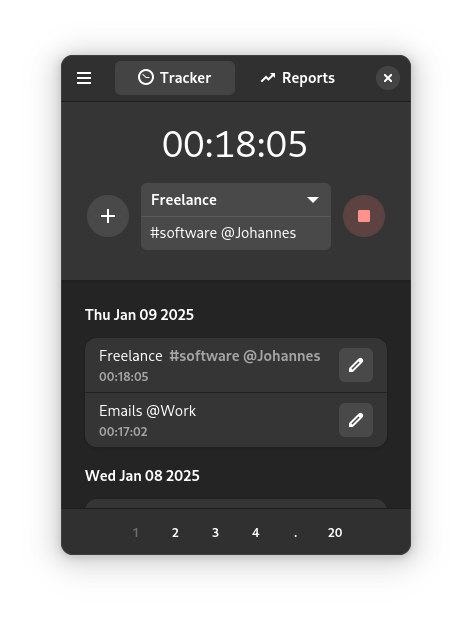
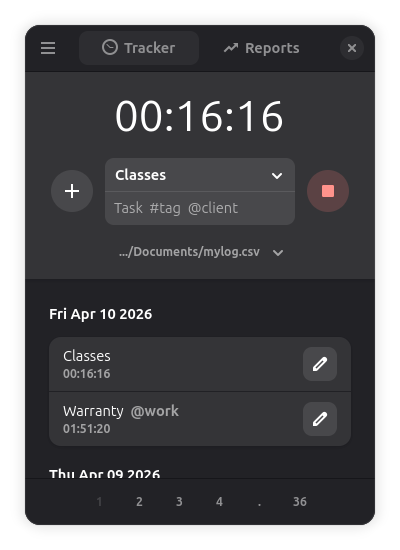
Adding log path on home screen

diff --git a/src/window.js b/src/window.js
@@ -199,8 +199,8 @@ export const TimeTrackerWindow = GObject.registerClass({
   InternalChildren: ['status', 'startbutton', 'starticon', 'projectlist',
   'logbox', 'logcontrols', 'add', 'switcher_title', 'menu', 'toast_overlay',
   'customreport', 'reportcontrols', 'reportdata', 'logouter',
-  'metaentry', 'presetreports', 'stack', 'page1', 'page3',
-  'newbutton', 'openbutton', 'systembutton', 'logscroll'],
+  'metaentry', 'presetreports', 'stack', 'page1', 'page3', 'logpathlabel',
+  'newbutton', 'openbutton', 'systembutton', 'logscroll', 'logbutton'],
 }, class TimeTrackerWindow extends Adw.ApplicationWindow {
 
   // Connecting with the gsettings for Time Tracker
@@ -235,12 +235,15 @@ export const TimeTrackerWindow = GObject.registerClass({
     ampmformat = this._settings.get_boolean("ampmformat");
     sync_autotemplog = this._settings.get_boolean("autotemplog");
     logpath = this._settings.get_string("log");
+
     const projectsSetting = this._settings.get_string("projects");
     try {
       this.setprojects(projectsSetting.split("`"));
     } catch (_) {
       this.setprojects();
     }
+
+    this.setlogbuttontext(logpath);
 
     // Connecting the start/stop button with the proper function
     const startstopAction = new Gio.SimpleAction({name: 'start'});
@@ -299,6 +302,40 @@ export const TimeTrackerWindow = GObject.registerClass({
     const columnsAction = new Gio.SimpleAction({name: 'editcolumns'});
     columnsAction.connect('activate', () => this.editwriteonlycolumnsdialog());
     this.add_action(columnsAction);
+
+    // Connecting the "Open Log" button with the proper function
+    const opencsvAction = new Gio.SimpleAction({name: 'opencsv'});
+    opencsvAction.connect('activate', () => {
+      try {
+        Gio.AppInfo.launch_default_for_uri(`file://${logpath}`, null);
+      } catch (e) {
+        console.log("Failed to open file: " + e);
+        this._toast_overlay.add_toast(Adw.Toast.new("Couldn't open the file."));
+      }
+    });
+    this.add_action(opencsvAction);
+
+    // Connecting the "Open Containing Folder" button with the proper function
+    const openfolderAction = new Gio.SimpleAction({name: 'openfolder'});
+    openfolderAction.connect('activate', () => {
+      try {
+        const file = Gio.File.new_for_path(logpath);
+        const folder = file.get_parent();
+        Gio.AppInfo.launch_default_for_uri(folder.get_uri(), null);
+      } catch (e) {
+        console.log("Failed to open folder: " + e);
+        this._toast_overlay.add_toast(Adw.Toast.new("Couldn't open the folder."));
+      }
+    });
+    this.add_action(openfolderAction);
+
+    // Connecting the "Copy path" button with the proper function
+    const copypathAction = new Gio.SimpleAction({name: 'copypath'});
+    copypathAction.connect('activate', () => {
+      const clipboard = this.get_clipboard();
+      clipboard.set(logpath);
+    });
+    this.add_action(copypathAction);
 
     // Connecting the project model to projectlist
     this._projectlist.expression = listexpression;
@@ -660,6 +697,7 @@ export const TimeTrackerWindow = GObject.registerClass({
           }
 
           this._settings.set_string("log", logpath);
+          this.setlogbuttontext(logpath);
 
           this.savedialog();
           if (insist) {
@@ -817,12 +855,24 @@ export const TimeTrackerWindow = GObject.registerClass({
 
       // Set logpath to log1 and save
       logpath = log1;
+      this.setlogbuttontext(logpath);
       await this.writelog();
       // Start sync timer
       this.setsynctimer();
 
     } else {
       console.log("Cannot merge the same file");
+    }
+  }
+
+  async setlogbuttontext(path = logpath) {
+    try {
+      let text = "..." + path.slice(-20);
+      this._logbutton.set_label(text);
+      this._logbutton.set_tooltip_text(path);
+      this._logpathlabel.label = path;
+    } catch (e) {
+      console.log(e);
     }
   }
 
@@ -853,6 +903,7 @@ export const TimeTrackerWindow = GObject.registerClass({
 
           this.stopsynctimer()
           logpath = file.get_path();
+          this.setlogbuttontext(logpath);
           // Make sure it resets everything when reading the new file
           sync_firsttime = true;
           // Empty sync_extracolumns
@@ -4909,6 +4960,7 @@ export const TimeTrackerWindow = GObject.registerClass({
     const directory = Gio.File.new_for_path(filepath);
 
     logpath = filepath + "/log.csv";
+    this.setlogbuttontext(logpath);
     this._settings.set_string("log", logpath);
     const file = Gio.File.new_for_path(logpath);
     // If the file exists
@@ -4949,6 +5001,7 @@ export const TimeTrackerWindow = GObject.registerClass({
         let today = new Date();
         //const ID = today.getTime();
 
+        /*
         let logname = logpath.split("/")[logpath.split("/").length - 1];
 
         let todaysname = "backup_" + today.getFullYear() +
@@ -4958,10 +5011,18 @@ export const TimeTrackerWindow = GObject.registerClass({
         await this.writelog(filepath + "/" + todaysname, null, false);
         console.log("Saved a backup");
         files.push(todaysname);
+        */
+        const hash = this.hashpath(logpath);
+        const timestamp = today.getTime();
+        const todaysname = `backup_${timestamp}_${hash}.csv`;
+        await this.writebackupindex(logpath);
+        await this.createfile(filepath + "/" + todaysname);
+        await this.writelog(filepath + "/" + todaysname, null, false);
 
 
         // Clean up extra backups according to numberofbackups
         if (deleteold) {
+          /*
           files.sort();
           let numberofbackups = 7;
           try {
@@ -4999,7 +5060,32 @@ export const TimeTrackerWindow = GObject.registerClass({
               }
             }
           }
+          */
+          files.sort();
+          let numberofbackups = 7;
+          try {
+            numberofbackups = this._settings.get_int("numberofbackups");
+          } catch (_) {}
 
+          const hash = this.hashpath(logpath);
+          const expectedSuffix = `_${hash}.csv`;
+
+          // Collect all backup files for this specific log
+          let backupfiles = files.filter(f => f.startsWith('backup_') && f.endsWith(expectedSuffix));
+
+          let filestodelete = [];
+
+          // Sort ascending by timestamp (already in filename as parts[1])
+          backupfiles.sort((a, b) => {
+            const ta = parseInt(a.split('_')[1]);
+            const tb = parseInt(b.split('_')[1]);
+            return ta - tb;
+          });
+
+          // Keep only the newest [numberofbackups] backups, delete the rest
+          if (backupfiles.length > numberofbackups) {
+            filestodelete = backupfiles.slice(0, backupfiles.length - numberofbackups);
+          }
           // Delete filestodelete
           if (filestodelete.length > 0) {
             for (let i = 0; i < filestodelete.length; i++) {
@@ -5031,6 +5117,7 @@ export const TimeTrackerWindow = GObject.registerClass({
         files.sort();
         let count = 0;
 
+        /*
         let logname = logpath.split("/")[logpath.split("/").length - 1];
 
         for (let i = files.length - 1; i > -1; i--) {
@@ -5046,6 +5133,23 @@ export const TimeTrackerWindow = GObject.registerClass({
                 } else {
                   count++;
                 }
+              }
+            }
+          }
+        }
+        */
+        const hash = this.hashpath(logpath);
+        const expectedPrefix = `backup_`;
+        const expectedSuffix = `_${hash}.csv`;
+
+        for (let i = files.length - 1; i > -1; i--) {
+          if (files[i].startsWith(expectedPrefix) && files[i].endsWith(expectedSuffix)) {
+            const parts = files[i].split('_');
+            if (!isNaN(parseInt(parts[1]))) { // parts[1] is the timestamp
+              if (count == countfromlast) {
+                return files[i];
+              } else {
+                count++;
               }
             }
           }
@@ -5552,6 +5656,53 @@ async openDirectory(filepath, isdirectory = false) {
     Gtk.show_uri(this, file.get_uri(), Gdk.CURRENT_TIME);
   } catch (e) {
     console.log(e);
+  }
+}
+
+// Generate a short, stable identifier for a filepath
+hashpath(filepath) {
+  let hash = 0;
+  for (let i = 0; i < filepath.length; i++) {
+    hash = (Math.imul(31, hash) + filepath.charCodeAt(i)) | 0;
+  }
+  // Convert to unsigned hex
+  return (hash >>> 0).toString(16).padStart(8, '0');
+}
+
+// Write/update the index file that maps hashes to full paths
+async writebackupindex(filepath) {
+  try {
+    const indexpath = GLib.build_filenamev([GLib.get_home_dir(), '.local/share/time-tracker/!backup_index.json']);
+    const indexfile = Gio.File.new_for_path(indexpath);
+    let index = {};
+
+    // Read existing index if it exists
+    if (indexfile.query_exists(null)) {
+      const contents = (await indexfile.load_contents_async(null))[0];
+      const text = new TextDecoder('utf-8').decode(contents);
+      try {
+        index = JSON.parse(text);
+      } catch (_) {}
+    }
+
+    // Preserve or set the instructions field
+    index["_instructions"] = [
+      "To find backups for a specific log file:",
+      "1. Look up the full path of your log file in this index to find its hash (the 8-character code on the left).",
+      "2. Backup files are named: backup_[timestamp]_[hash].csv",
+      "3. Find all files in this folder whose name ends in _[hash].csv — those are the backups for that log.",
+      "4. The timestamp in the filename is a Unix millisecond timestamp. The newest backup has the largest number."
+    ];
+
+    // Add or update this filepath's hash
+    const hash = this.hashpath(filepath);
+    index[hash] = filepath;
+
+    const text = JSON.stringify(index, null, 2);
+    const bytes = new GLib.Bytes(text);
+    await indexfile.replace_contents_bytes_async(bytes, null, false, Gio.FileCreateFlags.REPLACE_DESTINATION, null);
+  } catch (e) {
+    console.log("Failed to write backup index: " + e);
   }
 }
 

diff --git a/src/style.css b/src/style.css
@@ -13,3 +13,12 @@
 .light-font {
   font-size: smaller;
 }
+.dark-button {
+  font-size: smaller;
+  font-weight: normal;
+  padding-left: 0px;
+  padding-right: 0px;
+}
+.popover-button {
+  font-weight: normal;
+}
